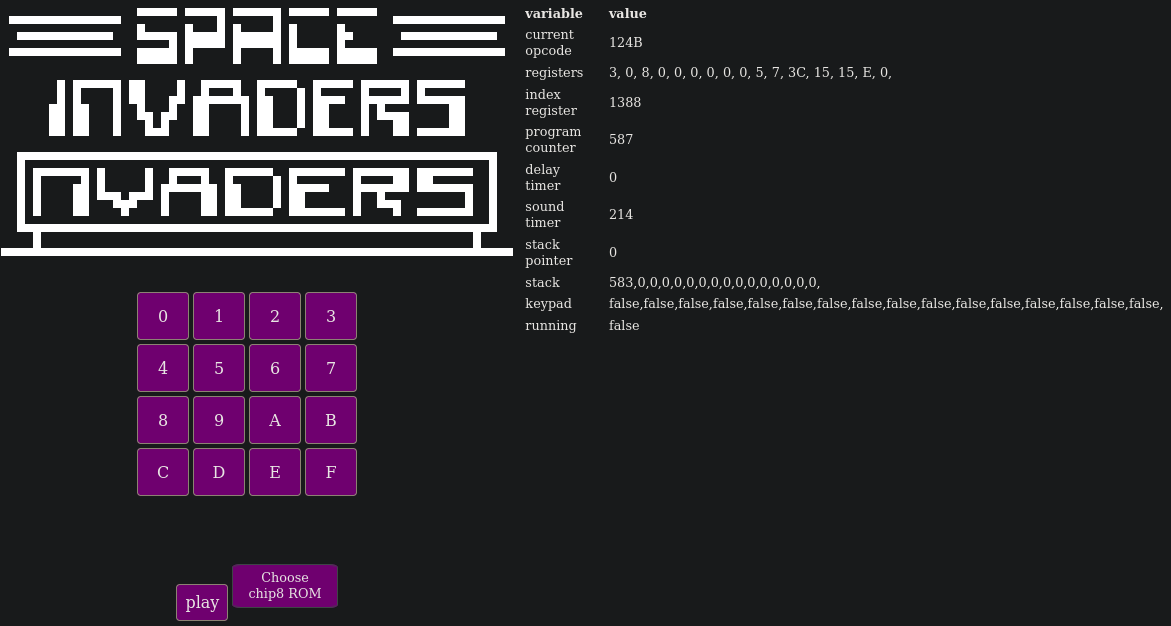
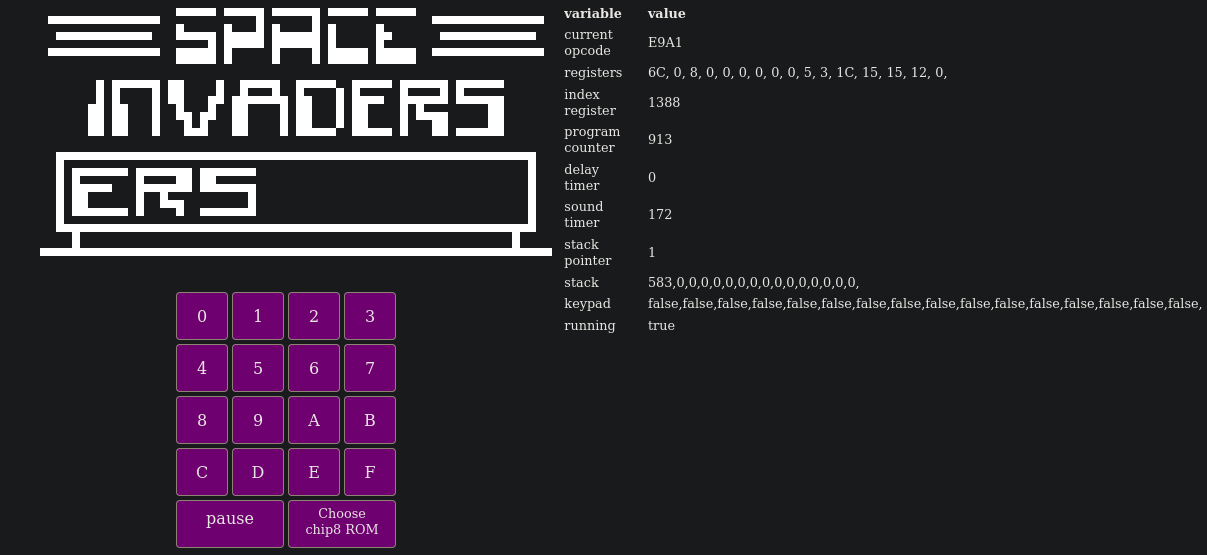
Fix keypad CSS

Changed region(s): [[0.0, 0.0, 1.0, 1.0], [0.5226, 0.3063, 0.5534, 0.3982], [0.4611, 0.582, 0.5534, 0.6126]]

diff --git a/build/index.css b/build/index.css
@@ -20,59 +20,6 @@ canvas {
   image-rendering: crisp-edges;
 }
 
-/*file-upload*/
-.file-upload {
-  position: relative;
-  background-color: darkmagenta;
-  border-radius: 8%;
-  display: block;
-  position: float;
-  width: 105px;
-  text-align: center;
-  margin-top: -60px;
-
-  -webkit-transition-duration: 0.4s; /* Safari */
-  transition-duration: 0.4s;
-  text-decoration: none;
-  overflow: hidden;
-}
-
-.file-upload:hover {
-  background: #fff;
-  box-shadow: 0px 2px 10px 5px #97b1bf;
-  color: #000;
-}
-
-.file-upload:after {
-  content: "";
-  background: darkmagenta;
-  display: block;
-  position: absolute;
-  padding-top: 300%;
-  padding-left: 350%;
-  margin-left: -20px !important;
-  margin-top: -120%;
-  opacity: 0;
-  transition: all 0.8s;
-}
-
-.file-upload:active:after {
-  padding: 0;
-  margin: 0;
-  opacity: 1;
-  transition: 0s;
-}
-
-input[type="file"] {
-  display: none;
-}
-.file-upload {
-  border: 1px solid #ccc;
-  display: inline-block;
-  padding: 6px 12px;
-  cursor: pointer;
-}
-
 /* When moving the mouse over the close custom-file-upload */
 .closebtn:hover {
   color: black;
@@ -113,21 +60,12 @@ input[type="file"] {
   background-color: rgb(243, 243, 243);
 }
 
-.emulator_state {
-  text-align: justify;
-  max-width: min-content;
-  position: fixed;
-  top: 0;
-  right: 0;
-}
-
 .breakpoint {
   background-color: darkmagenta;
   border: 2px solid black;
   border-radius: 5px;
   font-size: 20px;
   text-align: center;
-  max-width: min-content;
   position: flex;
   display: inline-block;
   padding: 0px;
@@ -136,9 +74,67 @@ input[type="file"] {
   padding-right: 10px;
   padding-left: 10px;
   cursor: pointer;
+  grid-row: 5;
+  grid-column: 1/5;
 }
 
 .breakpoint:hover {
   border: 1px solid #eeeeee;
   background-color: rgb(243, 243, 243);
+}
+
+/*file-upload*/
+.file-upload {
+  background-color: darkmagenta;
+  border: 2px solid black;
+  border-radius: 5px;
+  border-color: #eeeeee;
+  display: flex;
+  text-align: center;
+
+  -webkit-transition-duration: 0.4s; /* Safari */
+  transition-duration: 0.4s;
+  text-decoration: none;
+  overflow: hidden;
+}
+
+.file-upload:hover {
+  background: #fff;
+  box-shadow: 0px 2px 10px 5px #97b1bf;
+  color: #000;
+}
+
+.file-upload:after {
+  background: darkmagenta;
+  display: block;
+  position: absolute;
+  opacity: 0;
+  transition: all 0.8s;
+}
+
+.file-upload:active:after {
+  padding: 0;
+  margin: 0;
+  opacity: 1;
+  transition: 0s;
+}
+
+input[type="file"] {
+  display: none;
+}
+.file-upload {
+  border: 2px solid black;
+  display: inline-block;
+  padding: 6px 12px;
+  grid-column: 5 / span 4;
+  grid-row: 5;
+  cursor: pointer;
+}
+
+.emulator_state {
+  text-align: justify;
+  max-width: min-content;
+  position: fixed;
+  top: 0;
+  right: 0;
 }

diff --git a/src/input.rs b/src/input.rs
@@ -1,4 +1,4 @@
-use crate::utils::{append_to_body, document};
+use crate::utils::{append_element_to_another, append_to_body, document};
 use js_sys::JsString;
 use std::cell::RefCell;
 use std::rc::Rc;
@@ -11,7 +11,7 @@ pub fn set_keypad(k: &Rc<RefCell<[bool; 16]>>) {
         .create_element("keypad")
         .expect("should have a keypad.");
 
-    keypad.set_id("id");
+    keypad.set_id("keypad");
     keypad.set_class_name("keypad-base");
 
     append_to_body(&keypad);
@@ -52,7 +52,7 @@ pub fn set_breakpoint(b: &Rc<RefCell<bool>>) {
     breakpoint.set_class_name("breakpoint");
     breakpoint.set_inner_html("play");
 
-    append_to_body(&breakpoint);
+    append_element_to_another(&breakpoint, "keypad");
 
     let b1 = Rc::clone(&b);
 
@@ -110,7 +110,7 @@ pub fn set_file_reader(rom_buffer: &Rc<RefCell<Vec<u8>>>) {
     label.set_inner_text("Choose chip8 ROM");
     label.set_class_name("file-upload");
 
-    append_to_body(&label);
+    append_element_to_another(&label, "keypad");
     append_to_body(&fileinput);
 
     let callback = Closure::wrap(Box::new(move |event: Event| {

diff --git a/src/utils.rs b/src/utils.rs
@@ -13,6 +13,16 @@ pub fn append_to_body(element: &web_sys::Node) {
         .unwrap();
 }
 
+// Util function to append a `web_sys::Node` to an HTML element selected by
+// its id
+pub fn append_element_to_another(element: &web_sys::Node, id: &str) {
+    document()
+        .get_element_by_id(id)
+        .unwrap()
+        .append_child(&element)
+        .unwrap();
+}
+
 // Utile function to get a `web_sys::Document`.
 pub fn document() -> web_sys::Document {
     web_sys::window()

diff --git a/README.md b/README.md
@@ -14,6 +14,18 @@ useful links that helped me / motivated me a lot:
 
 [Awesome chip8 rom to test opcodes](https://github.com/corax89/chip8-test-rom)
 
+# usage
+
+Build & serve from source
+
+```
+./build.sh
+```
+
+Then play on localhost @ port 4000.
+
+[Some chip8 games to download](https://github.com/kripod/chip8-roms/tree/master/games)
+
 ## Todolist
 
 ### soon
@@ -30,5 +42,6 @@ useful links that helped me / motivated me a lot:
 - factorize emulator state rendering
 - add beep sound with web_sys::{AudioContext, OscillatorType};
 - allow tracing opcodes
-- responsive CSS, especially for the ROM choice button mdr
+- responsive CSS
+- add error handling to code instead of all the wild unwraps
 - set FPS / emulator speed during runtime
